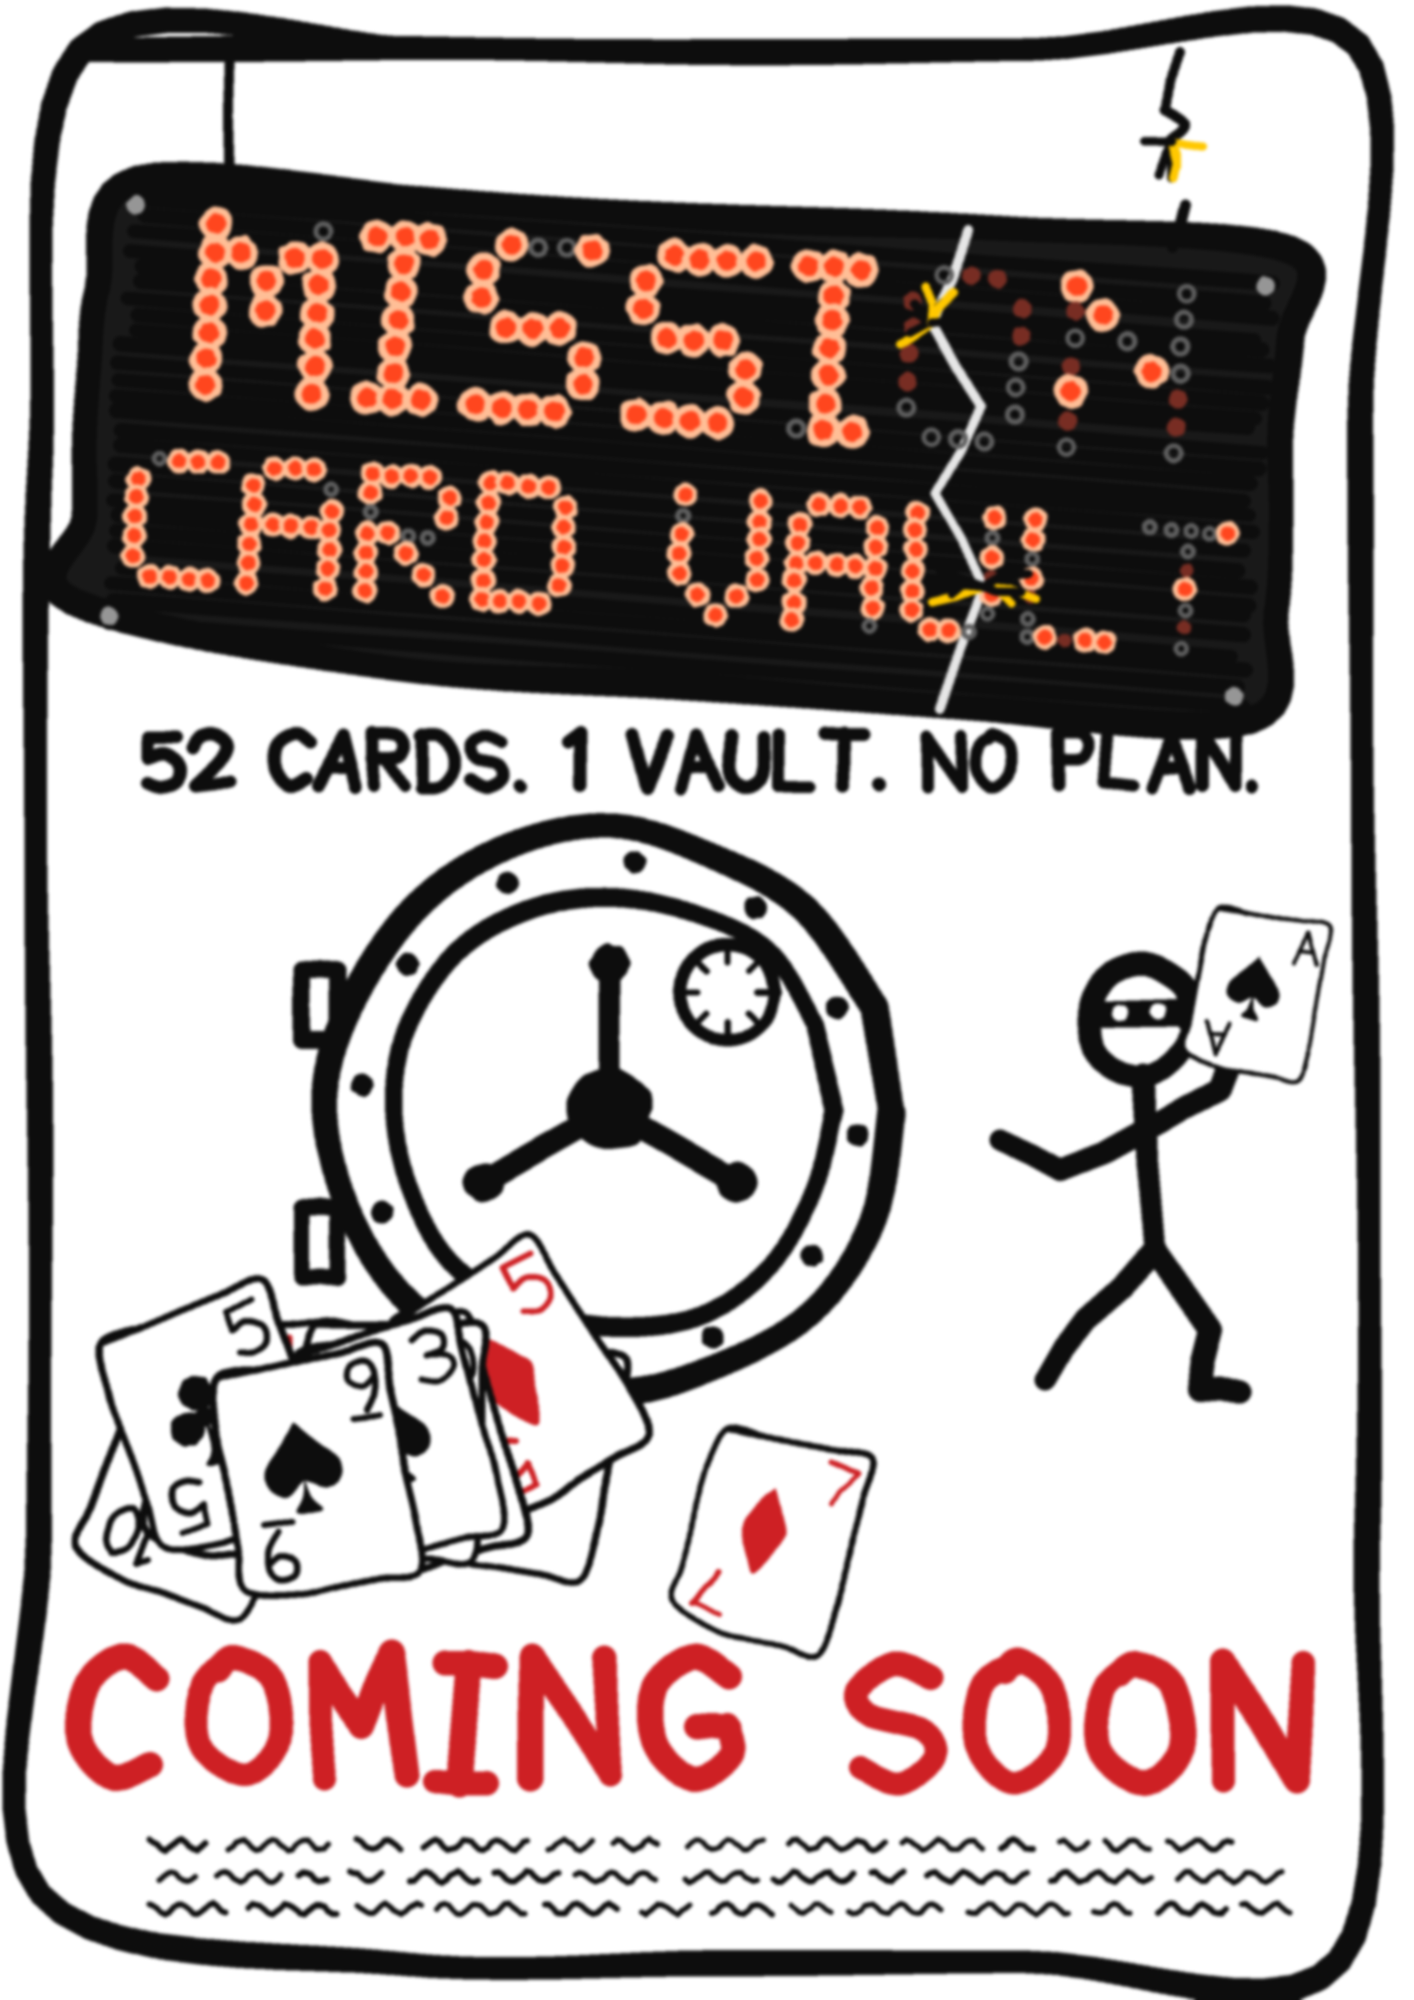
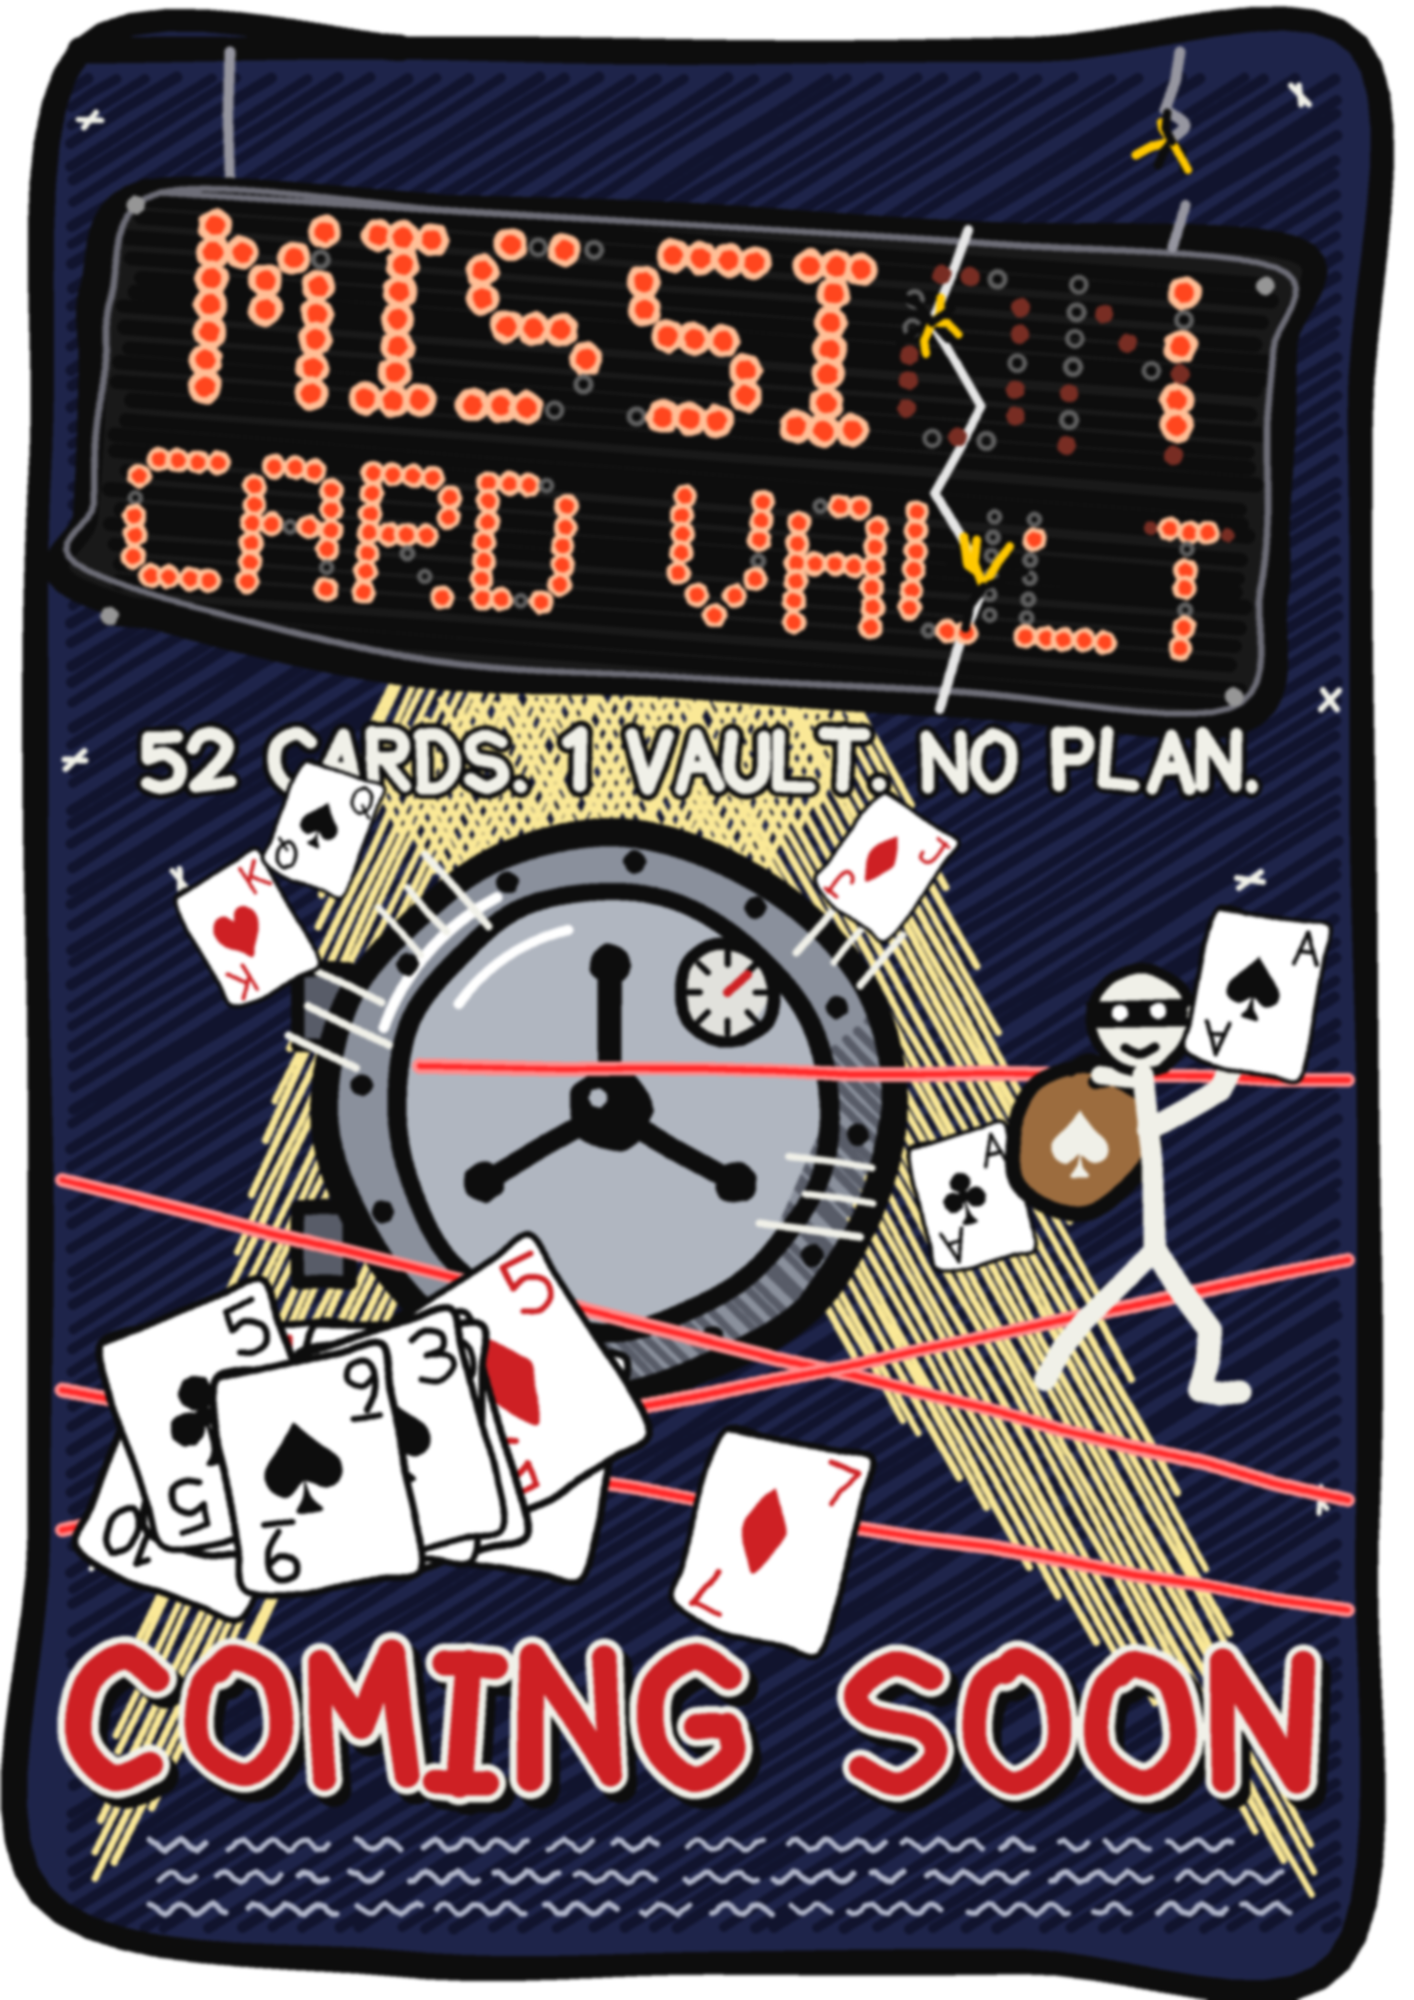
Make the Mission Card Vault poster cooler, still hand-drawn
Night sky coloured in with marker scribble, crossing searchlights, heist
lasers, a shaded metal vault, cards bursting out with speed lines, a
chalky thief with a loot sack, and outlined poster lettering.

Claude-Session: https://claude.ai/code/session_01UjDyNTYTqKf17e7tDeFSAz

diff --git a/playing-cards/make_poster.py b/playing-cards/make_poster.py
@@ -12,6 +12,7 @@ LED_GLOW = (255, 190, 150)
 LED_DIM = (120, 45, 35)
 DEAD = (95, 95, 95)
 SPARK = (255, 200, 0)
+WIRE = (150, 150, 160)
 
 # 5x7 sign font ("#" = bulb)
 FONT = {
@@ -71,9 +72,9 @@ def sign(pen):
 
     # wires from the top of the poster (drawn before the tilt)
     pen.at(0, 0)
-    pen.stroke(wobble_line([(230, 52), (sx + 120, sy + 5)], 3), 5)
-    pen.stroke(wobble_line([(1180, 52), (1165, 110)], 3), 5)                  # snapped stub at the top
-    pen.stroke(catmull([(1165, 110), (1185, 125), (1170, 140)]), 5)
+    pen.stroke(wobble_line([(230, 52), (sx + 120, sy + 5)], 3), 5, WIRE)
+    pen.stroke(wobble_line([(1180, 52), (1165, 110)], 3), 5, WIRE)            # snapped stub at the top
+    pen.stroke(catmull([(1165, 110), (1185, 125), (1170, 140)]), 5, WIRE)
     spark(pen, 1172, 142, 40)
 
     pen.at(sx, sy, 1, deg)
@@ -86,7 +87,9 @@ def sign(pen):
         pen.stroke([(xs[0], y), (xs[1], y + random.uniform(4, 12))], 7, INK)
         y += random.uniform(14, 22)
     pen.stroke(box, PEN + 2)
-    pen.stroke(wobble_line([(sw - 125, -2), (sw - 115, -45)], 3), 5)         # other half of the snapped wire
+    rim = wobbly_box(14, 14, sw - 14, sh - 14, tilt=6, jit=3)
+    pen.stroke(rim, 3, (110, 110, 120))                # metal edge so it shows up against the night
+    pen.stroke(wobble_line([(sw - 125, -2), (sw - 115, -45)], 3), 5, WIRE)         # other half of the snapped wire
     for bx, by in [(28, 28), (sw - 30, 30), (30, sh - 30), (sw - 32, sh - 28)]:
         pen.blob(bx, by, 9, (150, 150, 150))
 
@@ -117,52 +120,186 @@ def sign(pen):
     return pen
 
 
+POSTER = [(95, 100), (PW - 100, 100), (PW - 100, PH - 95), (95, PH - 95)]
+NIGHT = (30, 36, 74)
+NIGHT_DARK = (17, 20, 46)
+BEAM = (250, 232, 150)
+CHALK = (240, 240, 232)
+METAL = (138, 144, 156)
+METAL_LIGHT = (176, 182, 192)
+METAL_DARK = (88, 92, 104)
+LASER = (255, 40, 40)
+LASER_GLOW = (255, 140, 140)
+SACK = (156, 108, 62)
+
+
+def clip(p0, p1, poly):
+    """Part of segment p0-p1 inside a convex polygon, or None."""
+    cx = sum(p[0] for p in poly) / len(poly)
+    cy = sum(p[1] for p in poly) / len(poly)
+    t0, t1 = 0.0, 1.0
+    for a, b in zip(poly, poly[1:] + poly[:1]):
+        side = lambda p: (b[0] - a[0]) * (p[1] - a[1]) - (b[1] - a[1]) * (p[0] - a[0])
+        s = 1 if side((cx, cy)) >= 0 else -1
+        f0, f1 = s * side(p0), s * side(p1)
+        if f0 < 0 and f1 < 0:
+            return None
+        if f0 < 0:
+            t0 = max(t0, f0 / (f0 - f1))
+        elif f1 < 0:
+            t1 = min(t1, f0 / (f0 - f1))
+    if t0 >= t1:
+        return None
+    at = lambda t: (p0[0] + (p1[0] - p0[0]) * t, p0[1] + (p1[1] - p0[1]) * t)
+    return at(t0), at(t1)
+
+
+def hatch(pen, poly, color, deg, spacing, r, sloppy=8, inside=None):
+    """Colour a convex shape in with parallel marker strokes that overshoot a bit."""
+    pen.at(0, 0)
+    a = math.radians(deg)
+    dx, dy = math.cos(a), math.sin(a)
+    nx, ny = -dy, dx
+    cx = sum(p[0] for p in poly) / len(poly)
+    cy = sum(p[1] for p in poly) / len(poly)
+    reach = max(math.hypot(p[0] - cx, p[1] - cy) for p in poly) + 10
+    off = -reach
+    while off < reach:
+        o = off + random.uniform(-spacing * .25, spacing * .25)
+        seg = clip((cx + nx * o - dx * reach, cy + ny * o - dy * reach),
+                   (cx + nx * o + dx * reach, cy + ny * o + dy * reach), poly)
+        if seg:
+            (x0, y0), (x1, y1) = seg
+            e0, e1 = random.uniform(-sloppy, sloppy), random.uniform(-sloppy, sloppy)
+            seg = ((x0 - dx * e0, y0 - dy * e0), (x1 + dx * e1, y1 + dy * e1))
+            if inside:                                  # keep the scribble on the poster
+                seg = clip(*seg, inside)
+            if seg:
+                pen.stroke(wobble_line(list(seg), 1.5), r, color)
+        off += spacing
+
+
+def night_sky(pen, border):
+    """Fill the poster with dark blue, then scribble darker marker over it."""
+    pen.at(0, 0)
+    pen.fill(border, NIGHT)
+    hatch(pen, [(72, 78), (PW - 78, 78), (PW - 78, PH - 72), (72, PH - 72)], NIGHT_DARK, -32, 17, 5, sloppy=2)
+    for x, y in [(90, 120), (1300, 95), (75, 760), (1330, 700), (180, 880), (1250, 880), (100, 1560), (1320, 1500)]:
+        for k in range(2):                                         # little hand-drawn stars
+            a = math.radians(random.uniform(-10, 10) + 90 * k + 45 * (random.random() < .5))
+            L = random.uniform(9, 14)
+            pen.stroke([(x - math.cos(a) * L, y - math.sin(a) * L), (x + math.cos(a) * L, y + math.sin(a) * L)], 2.6, CHALK)
+
+
+def searchlights(pen, target):
+    tx, ty = target
+    for ox, oy, spread in [(70, PH - 70, 260), (PW - 70, PH - 70, 260)]:
+        ang = math.atan2(ty - oy, tx - ox)
+        far = 1500
+        nx, ny = -math.sin(ang), math.cos(ang)
+        end = (ox + math.cos(ang) * far, oy + math.sin(ang) * far)
+        cone = [(ox, oy), (end[0] + nx * spread, end[1] + ny * spread), (end[0] - nx * spread, end[1] - ny * spread)]
+        hatch(pen, cone, BEAM, math.degrees(ang) + 2, 11, 3.2, sloppy=20, inside=POSTER)
+
+
+def lasers(pen):
+    pen.at(0, 0)
+    for (x0, y0), (x1, y1) in [((62, 1180), (PW - 66, 1500)), ((62, 1530), (PW - 66, 1260)),
+                               ((62, 1390), (PW - 66, 1610)), ((420, 66 + 1000), (PW - 66, 1080))]:
+        line = wobble_line([(x0, y0), (x1, y1)], 2)
+        pen.stroke(line, 7, LASER_GLOW)
+        pen.stroke(line, 2.6, LASER)
+
+
+def ring(cx, cy, r, n=16, j=6):
+    pts = [(cx + r * math.cos(2 * math.pi * k / n) + random.uniform(-j, j),
+            cy + r * math.sin(2 * math.pi * k / n) + random.uniform(-j, j)) for k in range(n)]
+    return catmull(pts + pts[:3], 8)
+
+
 def vault(pen, cx, cy, R):
     pen.at(0, 0)
-    ring = lambda r, n=16, j=6: catmull([(cx + r * math.cos(2 * math.pi * k / n) + random.uniform(-j, j),
-                                          cy + r * math.sin(2 * math.pi * k / n) + random.uniform(-j, j))
-                                         for k in range(n)], 8)
-    outer = ring(R)
-    pen.stroke(outer + outer[:2], PEN + 2)
-    inner = ring(R * .78)
-    pen.stroke(inner + inner[:2], PEN - 2)
+    for hy in (cy - R * .5, cy + R * .35):              # hinges (behind the door)
+        h = [(cx - R - 32, hy), (cx - R - 32, hy + 75), (cx - R + 20, hy + 75), (cx - R + 20, hy)]
+        pen.fill(h, METAL_DARK)
+        pen.stroke(wobble_line(h + h[:1], 2), 7)
+    outer = ring(cx, cy, R)
+    pen.fill(outer, METAL)
+    # shading: darker crescent bottom right, shine top left
+    hatch(pen, [(cx + R * math.cos(math.radians(a)), cy + R * math.sin(math.radians(a))) for a in range(-20, 120, 10)],
+          METAL_DARK, 45, 13, 4, sloppy=3)
+    inner = ring(cx, cy, R * .78)
+    pen.fill(inner, METAL_LIGHT)
+    pen.stroke(outer, PEN + 2)
+    pen.stroke(inner, PEN - 2)
+    for start in (200, 215):
+        arc = [(cx + R * (.86 if start == 200 else .66) * math.cos(math.radians(a)),
+                cy + R * (.86 if start == 200 else .66) * math.sin(math.radians(a))) for a in range(start, start + 45, 6)]
+        pen.stroke(catmull(arc), 5, (255, 255, 255))
     for k in range(12):                                 # bolts
         a = 2 * math.pi * k / 12 + 0.1
         pen.blob(cx + R * .89 * math.cos(a), cy + R * .89 * math.sin(a), 11)
-    for hy in (cy - R * .5, cy + R * .35):              # hinges
-        pen.stroke(wobble_line([(cx - R - 28, hy), (cx - R - 28, hy + 70), (cx - R + 8, hy + 70), (cx - R + 8, hy), (cx - R - 28, hy)], 2), 8)
     for k in range(3):                                  # spinny handle
         a = math.radians(30 + 120 * k)
         end = (cx + R * .52 * math.cos(a), cy + R * .52 * math.sin(a))
         pen.stroke(wobble_line([(cx, cy), end], 3), PEN)
         pen.blob(*end, 20)
     pen.blob(cx, cy, 42)
-    # dial with tick marks, top right
-    dx, dy = cx + R * .42, cy - R * .42
-    dial = catmull([(dx + 48 * math.cos(2 * math.pi * k / 10), dy + 48 * math.sin(2 * math.pi * k / 10)) for k in range(11)], 5)
+    pen.blob(cx - 12, cy - 12, 9, METAL_LIGHT)
+    dx, dy = cx + R * .42, cy - R * .42                 # dial with tick marks
+    dial = ring(dx, dy, 48, n=10, j=2)
+    pen.fill(dial, (225, 225, 220))
     pen.stroke(dial, 6)
     for k in range(8):
         a = 2 * math.pi * k / 8
-        pen.stroke([(dx + 30 * math.cos(a), dy + 30 * math.sin(a)), (dx + 42 * math.cos(a), dy + 42 * math.sin(a))], 3)
+        pen.stroke([(dx + 28 * math.cos(a), dy + 28 * math.sin(a)), (dx + 41 * math.cos(a), dy + 41 * math.sin(a))], 3)
+    pen.stroke([(dx, dy), (dx + 20, dy - 18)], 4, RED)
+
+
+def flying_cards(pen, cx, cy):
+    """Cards bursting out of the vault, with motion lines behind them."""
+    for (x, y, sc, deg, rank, suit, seed) in [(170, 900, .17, -30, 'K', 'hearts', 501), (300, 760, .15, 20, 'Q', 'spades', 502),
+                                              (880, 790, .16, 35, 'J', 'diamonds', 503), (905, 1150, .17, -15, 'A', 'clubs', 504)]:
+        a = math.atan2(y - cy, x - cx)
+        mx, my = x + CARD_W * sc / 2, y + CARD_H * sc / 2
+        pen.at(0, 0)
+        for k in (-1, 0, 1):                            # speed lines
+            px, py = -math.sin(a) * k * 35, math.cos(a) * k * 35
+            L0, L1 = 90 + random.uniform(-10, 10), 170 + random.uniform(-25, 25)
+            pen.stroke(wobble_line([(mx + px - math.cos(a) * L0, my + py - math.sin(a) * L0),
+                                    (mx + px - math.cos(a) * L1, my + py - math.sin(a) * L1)], 2), 3.5, CHALK)
+        pen.at(x, y, sc, deg)
+        card(pen, rank, suit, seed=seed, paper=True)
+        random.seed(seed + 1)
 
 
 def thief(pen, x, y):
-    """Stick figure sneaking up on the vault with a card."""
+    """Chalky stick figure tiptoeing over the lasers with a loot sack and a card."""
     pen.at(0, 0)
-    head = catmull([(x + 52 * math.cos(2 * math.pi * k / 12) + random.uniform(-3, 3),
-                     y + 55 * math.sin(2 * math.pi * k / 12) + random.uniform(-3, 3)) for k in range(13)], 6)
-    pen.stroke(head, PEN)
+    hip = (x + 15, y + 230)
+    sack = ring(x - 60, y + 120, 70, n=12, j=8)       # loot sack over the shoulder
+    pen.fill(sack, SACK)
+    pen.stroke(sack, 7)
+    pen.stroke(catmull([(x - 70, y + 50), (x - 50, y + 40), (x - 20, y + 55), (x - 45, y + 62)]), 7)
+    pen.at(0, 0)
+    from make_cards import suit_shape
+    for sh in suit_shape('spades', x - 60, y + 125, 70):
+        pen.fill(sh, CHALK)
+    pen.stroke(wobble_line([(x + 3, y + 60), (x - 40, y + 55)], 2), PEN * .8, CHALK)          # hand on the sack
+
+    head = ring(x, y, 52, n=12, j=3)
+    pen.fill(head, CHALK)
+    pen.stroke(head, 5)
     pen.fill([(x - 54, y - 18), (x + 54, y - 22), (x + 52, y + 6), (x - 52, y + 8)], INK)   # robber mask
     pen.blob(x - 20, y - 7, 8, 'white')
     pen.blob(x + 18, y - 9, 8, 'white')
-    pen.stroke(wobble_line([(x + 52, y - 10), (x + 95, y - 30)], 3), 6)                       # mask strings
-    pen.stroke(wobble_line([(x + 52, y - 4), (x + 90, y + 8)], 3), 6)
-    hip = (x + 15, y + 230)
-    pen.stroke(wobble_line([(x + 3, y + 55), hip], 4), PEN)                                  # body (leaning)
-    pen.stroke(wobble_line([hip, (x - 55, y + 300), (x - 95, y + 360)], 4), PEN)             # legs, mid tiptoe
-    pen.stroke(wobble_line([hip, (x + 70, y + 310), (x + 60, y + 370), (x + 100, y + 372)], 4), PEN)
-    pen.stroke(wobble_line([(x + 6, y + 110), (x - 80, y + 150), (x - 140, y + 120)], 4), PEN)   # arm reaching
-    pen.stroke(wobble_line([(x + 8, y + 110), (x + 80, y + 70), (x + 105, y + 5)], 4), PEN)      # arm holding a card up
+    pen.stroke(wobble_line([(x + 52, y - 10), (x + 95, y - 30)], 3), 5, CHALK)                # mask strings
+    pen.stroke(wobble_line([(x + 52, y - 4), (x + 90, y + 8)], 3), 5, CHALK)
+    pen.stroke(catmull([(x - 15, y + 28), (x, y + 34), (x + 15, y + 27)]), 4)                  # sneaky grin
+    pen.stroke(wobble_line([(x + 3, y + 55), hip], 4), PEN, CHALK)                           # body (leaning)
+    pen.stroke(wobble_line([hip, (x - 55, y + 300), (x - 95, y + 360)], 4), PEN, CHALK)      # legs, mid tiptoe
+    pen.stroke(wobble_line([hip, (x + 70, y + 310), (x + 60, y + 370), (x + 100, y + 372)], 4), PEN, CHALK)
+    pen.stroke(wobble_line([(x + 8, y + 110), (x + 80, y + 70), (x + 105, y + 5)], 4), PEN, CHALK)  # arm holding a card up
     pen.at(x + 70, y - 110, 0.2, 10)
     card(pen, 'A', 'spades', seed=999, paper=True)
     random.seed(4242)
@@ -176,8 +313,15 @@ def scribble_credits(pen, y):
         while x < PW - 170:
             L = random.uniform(30, 110)
             pts = [(x + t, y + row * 32 + math.sin(t / 5 + x) * 5 + random.uniform(-1, 1)) for t in range(0, int(L), 4)]
-            pen.stroke(pts, 2.6, INK)
+            pen.stroke(pts, 2.6, (175, 180, 200))
             x += L + random.uniform(12, 26)
+
+
+def outlined(pen, text, cx, y, h, r, color, seed):
+    """Big poster lettering: drop shadow, fat white outline, then the colour."""
+    for dx, dy, rr, c in [(9, 10, r + 7, INK), (0, 0, r + 7, CHALK), (0, 0, r, color)]:
+        random.seed(seed)
+        write(pen.at(0, 0), text, cx + dx, y + dy, h, r=rr, gap=0.3, color=c, center=True)
 
 
 if __name__ == '__main__':
@@ -185,25 +329,34 @@ if __name__ == '__main__':
     pen = Pen(PW, PH)
     pen.at(0, 0)
     border = wobbly_box(42, 48, PW - 48, PH - 42, tilt=0, jit=4)
+    random.seed(1)
+    night_sky(pen, border)
+    random.seed(2)
+    searchlights(pen, (610, 700))
+    random.seed(3)
+    pen.at(0, 0)
     pen.stroke(border, PEN + 1)
 
+    random.seed(4242)
     sign(pen)
-    pen.at(0, 0)
     random.seed(77)
-    write(pen, '52 CARDS. 1 VAULT. NO PLAN.', PW / 2, 735, 52, r=6, gap=0.22, center=True)
+    for rr, c in [(11, INK), (6, CHALK)]:
+        random.seed(77)
+        write(pen.at(0, 0), '52 CARDS. 1 VAULT. NO PLAN.', PW / 2, 735, 52, r=rr, gap=0.22, color=c, center=True)
 
     random.seed(5)
     vault(pen, 610, 1110, 280)
+    random.seed(10)
+    flying_cards(pen, 610, 1110)
+    random.seed(11)
+    lasers(pen)
     random.seed(6)
     thief(pen, 1140, 1020)
     messy_stack(pen, 330, 1450, 0.3, 9, seed=31, wide=700, tall=250)
-    # a 7 of diamonds flying off (the first card ever drawn)
-    pen.at(720, 1425, 0.26, 14)
+    pen.at(720, 1425, 0.26, 14)                         # the 7 of diamonds, the first card ever drawn
     card(pen, '7', 'diamonds', seed=206, paper=True)
 
-    random.seed(8)
-    pen.at(0, 0)
-    write(pen, 'COMING SOON', PW / 2, 1660, 120, r=PEN + 1, gap=0.3, color=RED, center=True)
+    outlined(pen, 'COMING SOON', PW / 2, 1660, 120, PEN + 1, RED, seed=8)
     random.seed(9)
     scribble_credits(pen, 1845)
 
